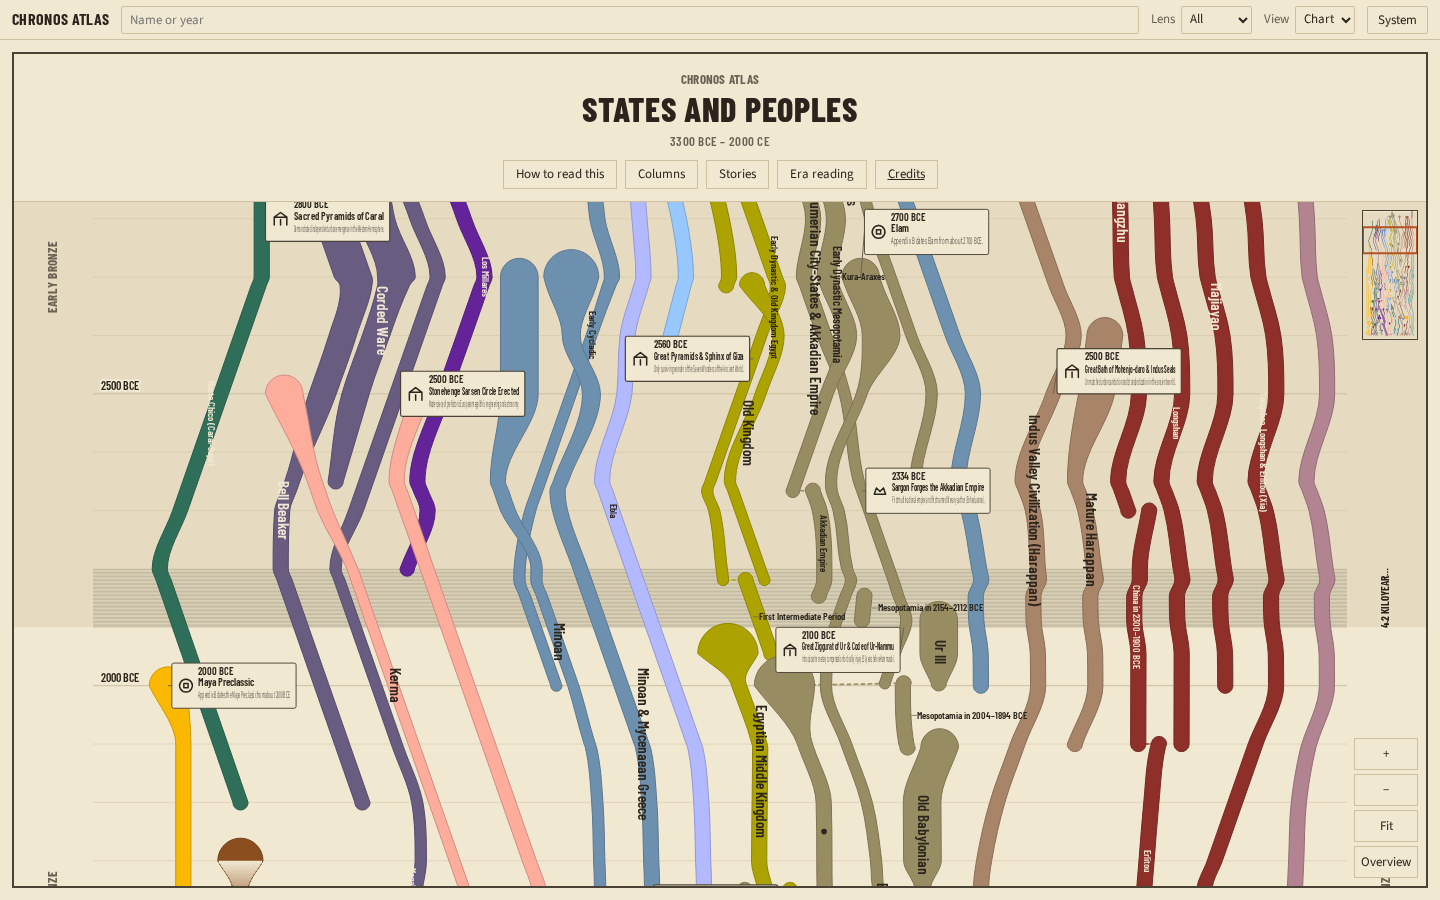
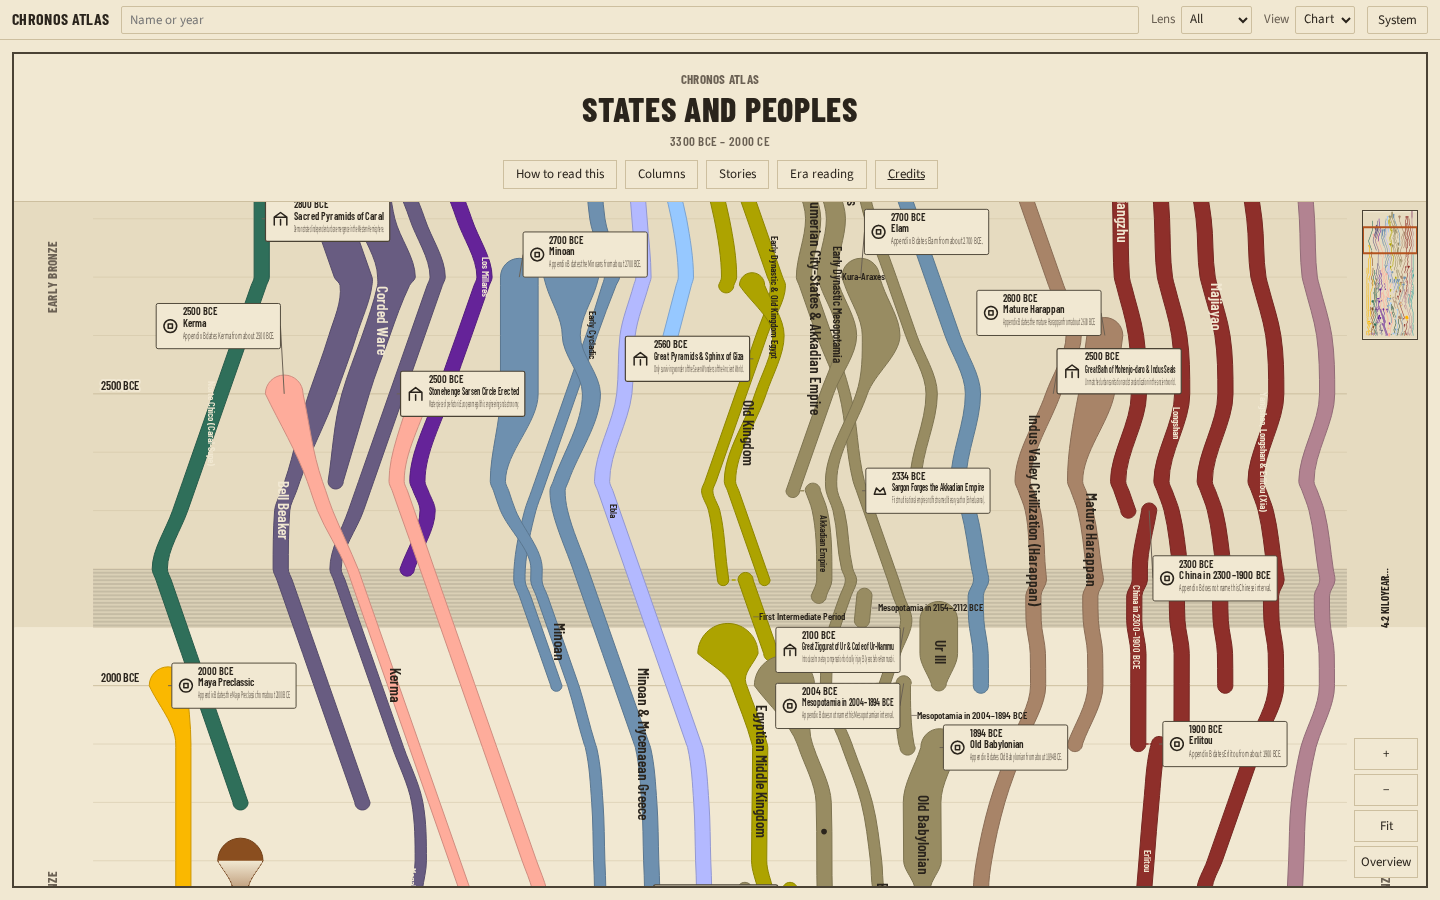
T6.05: retake poster shots after the bronze-age rows
npm run shots passed on desktop, wide, and mobile. The frame around 2500 BCE shows the Minoan callout and the Kerma callout.

diff --git a/docs/PROGRESS.md b/docs/PROGRESS.md
@@ -149,10 +149,10 @@ Partials: item 1, overview labels about 2px (`docs/shots/p3/desktop-overview.png
 
 ## P6
 
-| Task  | Status | Commit  | Evidence                                                                                                  | Minutes | Notes                                                                                                                                                                                                                                                        |
-| ----- | ------ | ------- | --------------------------------------------------------------------------------------------------------- | ------- | ------------------------------------------------------------------------------------------------------------------------------------------------------------------------------------------------------------------------------------------------------------ |
-| T6.01 | doing  | 17d61f0 | `npm run shots` 3 passed; 1800–2000 count 169; layout overlaps 0; warm runtime over 150 ms                | 115     | States Appendix B does not date are in 7d3a50c. The spine and layout report are c37e6ee. Notes, tours, and `docs/reviews/1800-2000.md` are 17d61f0. Two listed homepages loaded and did not state a row year, so nothing is cross-checked.                   |
-| T6.02 | doing  | 1bc27b6 | `npm run shots` 3 passed; 1500–1800 count 108; layout overlaps 0; warm runtime 156 ms                     |         | Prose is bab8710. Sweden, Denmark–Norway, and Saadi Morocco are 94d7f8f. Callouts are 7f9c251. Notes are 84c73c5. Tours are 16078bf. The checklist is 1bc27b6. `unesco_gha` loaded and stated volume centuries, not a row year, so nothing is cross-checked. |
-| T6.03 | doing  | d4e4c19 | `npm run shots` 3 passed; 500–1000 count 103; 1000–1500 count 113; layout overlaps 0; warm runtime 165 ms |         | Prose is b2b8724. The Visigoth year is 006db7b. Callouts are e4f49fa. Notes are 470938a. Tours are 6e2dec6. The checklist is d4e4c19. `chgis` loaded and described a placename database, not a row year, so nothing is cross-checked.                        |
-| T6.04 | doing  | 6a085d9 | `npm run shots` 3 passed; 1000–1 BCE count 83; 1–500 count 67; layout overlaps 0; warm runtime 169 ms     |         | Prose is 2866f76. Callouts are 8a49fd2. Notes are c76bcc5. Tours are 8a70d31. The checklist is 6a085d9. `british_library` loaded and described the national library, not a row year, so nothing is cross-checked.                                            |
-| T6.05 | doing  | c186cff | 2000–1000 BCE count 48; 1000–1 BCE count 83; layout overlaps 0; warm runtime 167 ms                       |         | Prose is 240fed6. Callouts are 5fa883e. Notes are d559114. The tour stays the migrated one, c186cff. `cdli` loaded and described a cuneiform library, not a row year, so nothing is cross-checked.                                                           |
+| Task  | Status | Commit  | Evidence                                                                                                      | Minutes | Notes                                                                                                                                                                                                                                                        |
+| ----- | ------ | ------- | ------------------------------------------------------------------------------------------------------------- | ------- | ------------------------------------------------------------------------------------------------------------------------------------------------------------------------------------------------------------------------------------------------------------ |
+| T6.01 | doing  | 17d61f0 | `npm run shots` 3 passed; 1800–2000 count 169; layout overlaps 0; warm runtime over 150 ms                    | 115     | States Appendix B does not date are in 7d3a50c. The spine and layout report are c37e6ee. Notes, tours, and `docs/reviews/1800-2000.md` are 17d61f0. Two listed homepages loaded and did not state a row year, so nothing is cross-checked.                   |
+| T6.02 | doing  | 1bc27b6 | `npm run shots` 3 passed; 1500–1800 count 108; layout overlaps 0; warm runtime 156 ms                         |         | Prose is bab8710. Sweden, Denmark–Norway, and Saadi Morocco are 94d7f8f. Callouts are 7f9c251. Notes are 84c73c5. Tours are 16078bf. The checklist is 1bc27b6. `unesco_gha` loaded and stated volume centuries, not a row year, so nothing is cross-checked. |
+| T6.03 | doing  | d4e4c19 | `npm run shots` 3 passed; 500–1000 count 103; 1000–1500 count 113; layout overlaps 0; warm runtime 165 ms     |         | Prose is b2b8724. The Visigoth year is 006db7b. Callouts are e4f49fa. Notes are 470938a. Tours are 6e2dec6. The checklist is d4e4c19. `chgis` loaded and described a placename database, not a row year, so nothing is cross-checked.                        |
+| T6.04 | doing  | 6a085d9 | `npm run shots` 3 passed; 1000–1 BCE count 83; 1–500 count 67; layout overlaps 0; warm runtime 169 ms         |         | Prose is 2866f76. Callouts are 8a49fd2. Notes are c76bcc5. Tours are 8a70d31. The checklist is 6a085d9. `british_library` loaded and described the national library, not a row year, so nothing is cross-checked.                                            |
+| T6.05 | doing  | 9443b39 | `npm run shots` 3 passed; 2000–1000 BCE count 48; 1000–1 BCE count 83; layout overlaps 0; warm runtime 167 ms |         | Prose is 240fed6. Callouts are 5fa883e. Notes are d559114. The tour stays the migrated one, c186cff. The checklist is 9443b39. `cdli` loaded and described a cuneiform library, not a row year, so nothing is cross-checked.                                 |

diff --git a/docs/reviews/2000bce-600bce.md b/docs/reviews/2000bce-600bce.md
@@ -41,7 +41,7 @@ No Iron Age transition band was added. The pass names it and gives no years. The
 
 ## Layout
 
-`docs/reports/layout-latest.json` after the callouts: 238 ribbons drawn, 436 polities, 0 overlaps, minimum gap 6, importance-3 labels 82/82, 0 unroutable relations, max drift 3.211. Cold runtime 252 ms, warm 167 ms, over the 150 ms gate. Callouts dropped 221, with 13 markers and 81 placed. The layout engine was not changed. Importance was not raised. Weights were not changed.
+`docs/reports/layout-latest.json` after the callouts: 238 ribbons drawn, 436 polities, 0 overlaps, minimum gap 6, importance-3 labels 82/82, 0 unroutable relations, max drift 3.211. Cold runtime 252 ms, warm 167 ms, over the 150 ms gate. Callouts dropped 221, with 13 markers and 81 placed. The layout engine was not changed. Importance was not raised. Weights were not changed. `npm run shots` passed on desktop, wide, and mobile. The frame around 2500 BCE shows the Minoan callout and the Kerma callout.
 
 ## Tours and notes
 
